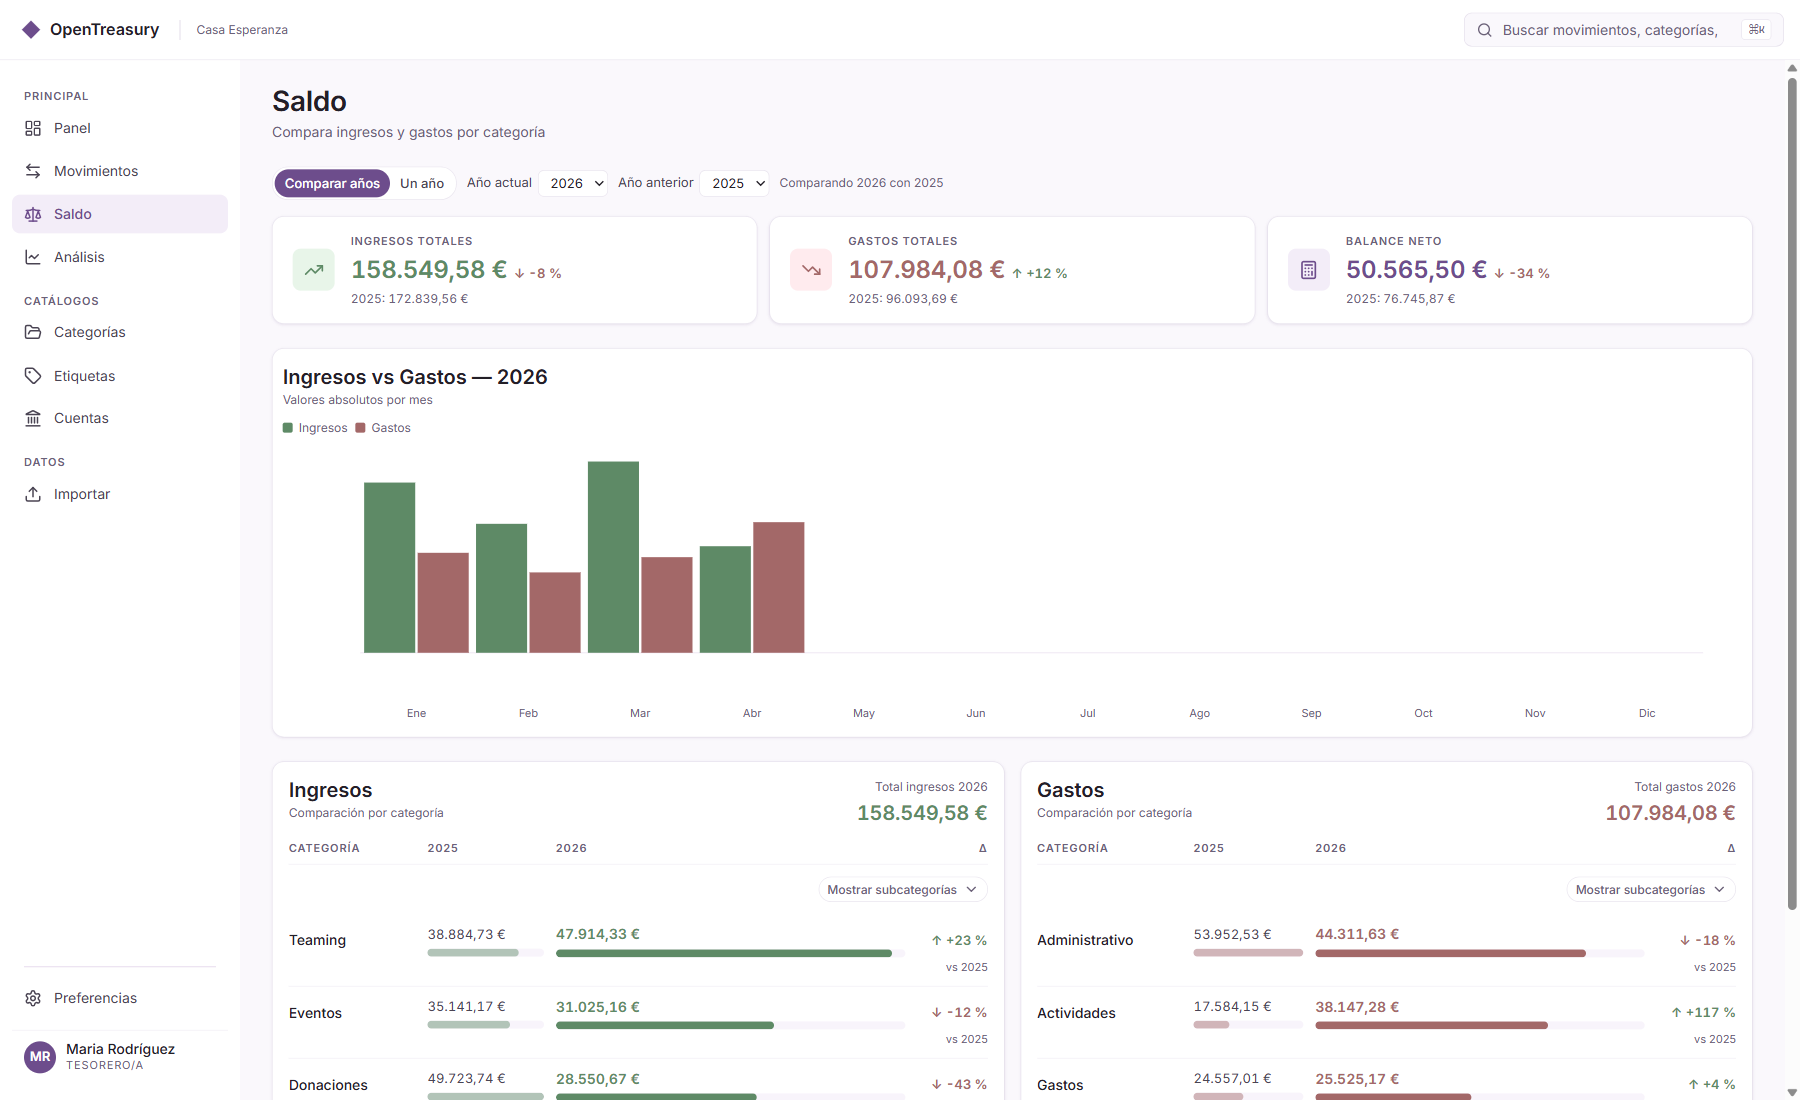
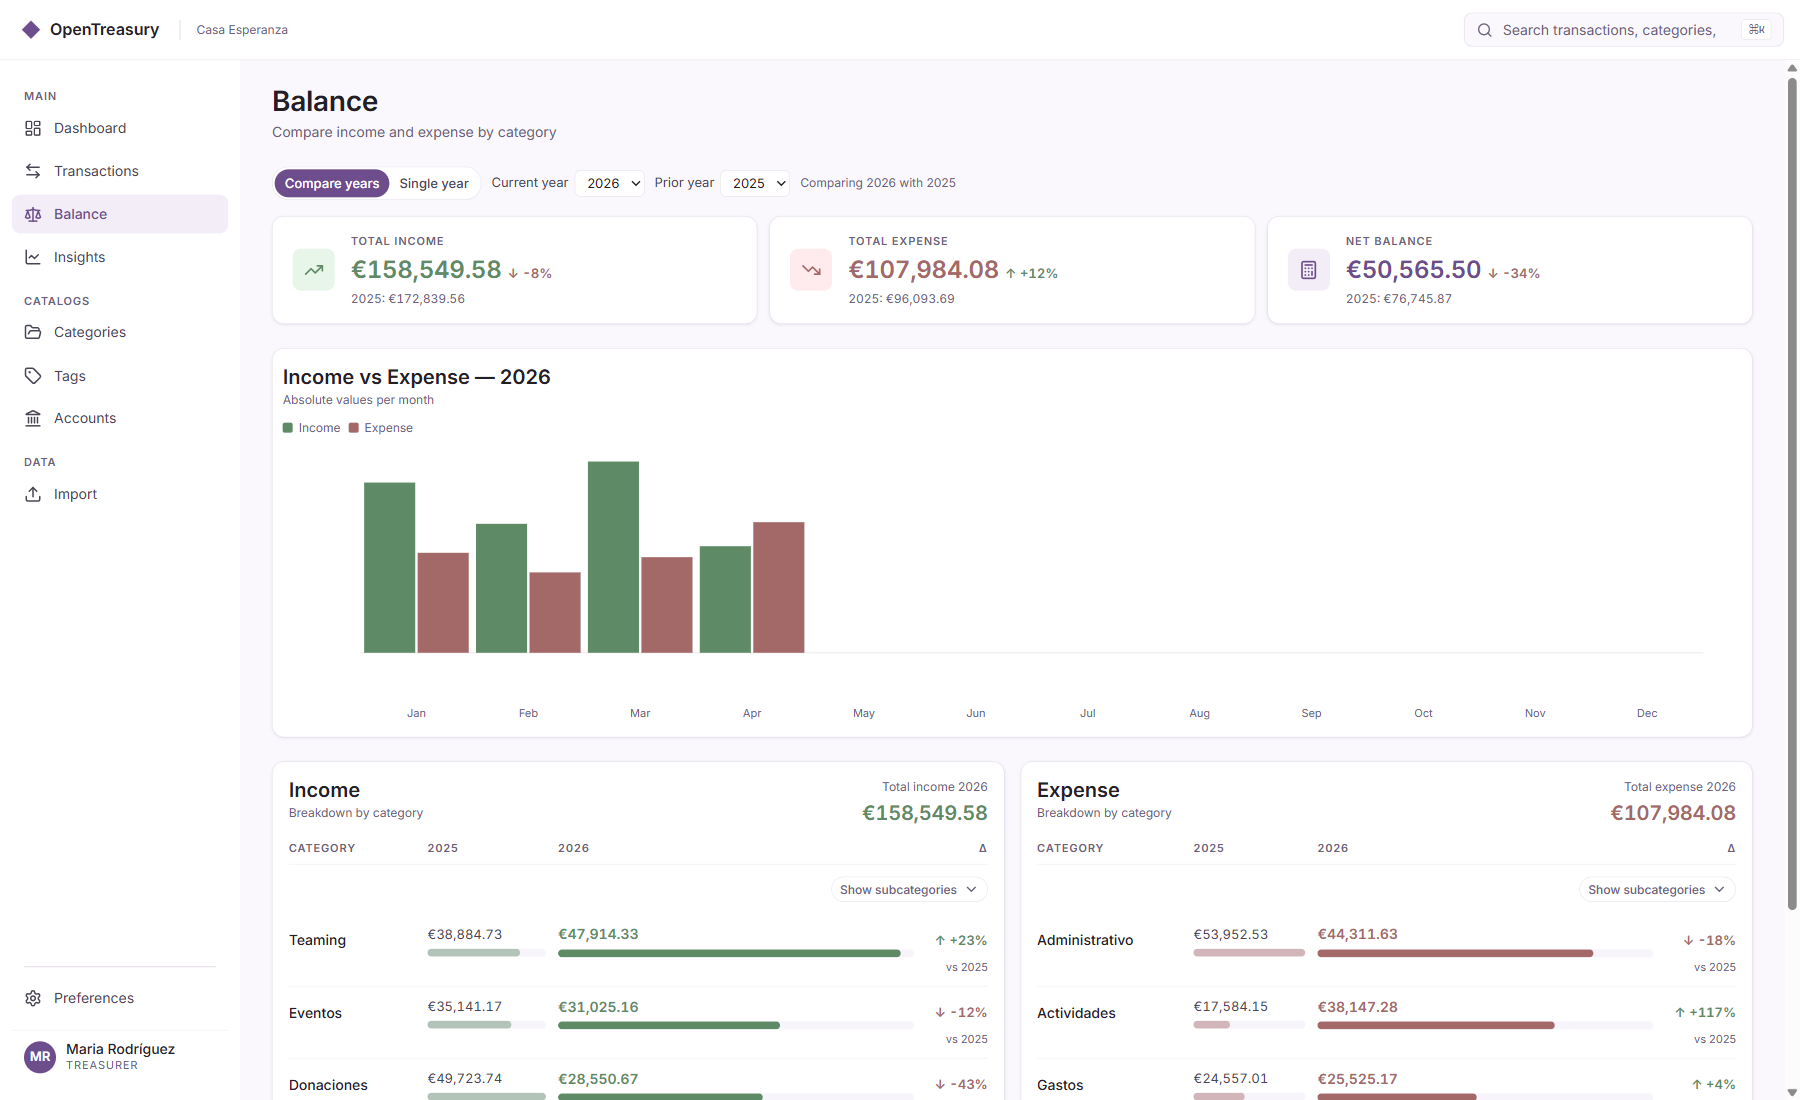
fix(doc-shots): switch generated locale to English to match user-guide.md
Changed locale from Spanish to English:
- Updated LANG env var from es_ES to en_US
- Updated localStorage['opentreasury.locale'] from 'es' to 'en'
- Updated text selectors: 'Todo' → 'All', 'Preferencias' → 'Preferences'

Regenerated all 7 screenshots with English UI labels (Dashboard, Transactions,
Balance, Insights, Settings, etc.) to match docs/guides/user-guide.md.

Org name 'Casa Esperanza' and user role localization remain unchanged as expected.

diff --git a/tests/e2e/doc-shots.spec.ts b/tests/e2e/doc-shots.spec.ts
@@ -110,10 +110,10 @@ async function launchApp(userDataDir: string): Promise<ElectronApplication> {
       // Suppress the dev-seed auto-write — we already shaped the dataset
       // ourselves via perf-seed.mjs.
       OT_SEED: 'none',
-      // Ensure renderer i18n picks Spanish so screenshots match the persona.
+      // Ensure renderer i18n picks English to match docs/guides/user-guide.md.
       // (i18next-browser-languagedetector also reads localStorage; we set that
       // explicitly below for belt-and-braces determinism.)
-      LANG: 'es_ES.UTF-8',
+      LANG: 'en_US.UTF-8',
     },
   });
 }
@@ -176,10 +176,10 @@ test.describe('doc-shots — illustrated end-user guide screenshots', () => {
     try {
       const page = await preparePage(app);
 
-      // Set Spanish locale before first navigation
+      // Set English locale before first navigation to match docs/guides/user-guide.md
       await page.evaluate(() => {
         try {
-          window.localStorage.setItem('opentreasury.locale', 'es');
+          window.localStorage.setItem('opentreasury.locale', 'en');
         } catch {
           /* ignore */
         }
@@ -221,8 +221,8 @@ test.describe('doc-shots — illustrated end-user guide screenshots', () => {
       await page.click(NAV_MOVEMENTS);
       // Wait for the movements screen container
       await page.waitForSelector('.ot-movements', { state: 'visible', timeout: 10_000 });
-      // Default filter is "Este mes" which may have no data. Click "Todo" to show all.
-      await page.click('text=Todo');
+      // Default filter is "This month" which may have no data. Click "All" to show all.
+      await page.click('text=All');
       await page.waitForTimeout(1000);
       // Now wait for data rows to appear
       await page.waitForSelector(FIRST_DATA_ROW, { state: 'visible', timeout: 10_000 });
@@ -246,7 +246,7 @@ test.describe('doc-shots — illustrated end-user guide screenshots', () => {
       await page.evaluate(() => window.scrollTo(0, 0));
       await page.waitForTimeout(500);
       // The settings gear is in the sidebar footer, not the topbar
-      const settingsBtn = page.locator('button:has-text("Preferencias")');
+      const settingsBtn = page.locator('button:has-text("Preferences")');
       await settingsBtn.click({ timeout: 10_000 });
       await page.waitForSelector('.ot-preferences', { state: 'visible' });
       await page.waitForTimeout(500);
